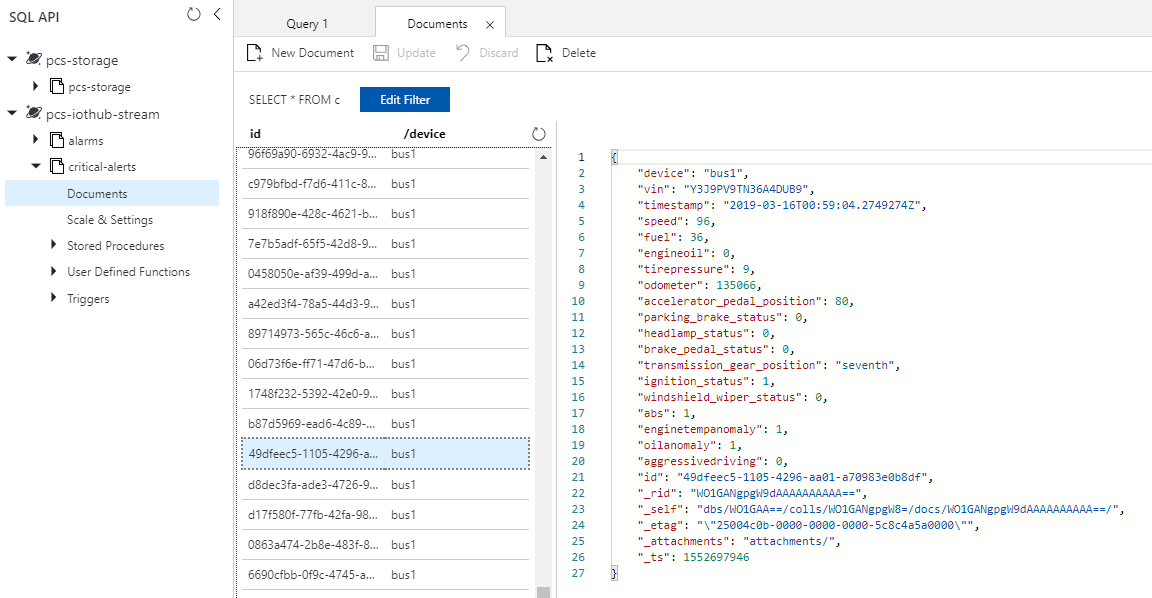
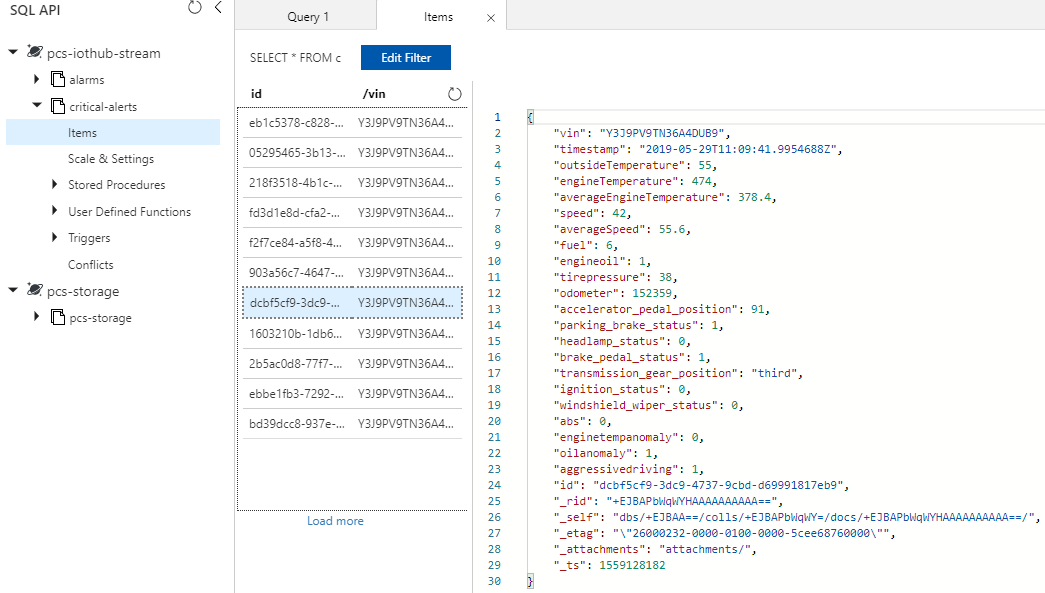
Testfix June 2019 - CosmosDB Items instead of Documents, fixed code and corrected image

diff --git a/Hands-on lab/HOL step-by-step - IoT and the Smart City.md b/Hands-on lab/HOL step-by-step - IoT and the Smart City.md
@@ -1834,8 +1834,7 @@ The console app is a fast and effortless way to view the critical engine alerts 
             var criticalAlertContent = JSON.stringify(alert);
             // Save the alarm to Cosmos DB
             context.bindings.criticalAlertDocument = criticalAlertContent;
-        }
-        context.done();
+            context.done();
     };
     ```
 
@@ -1867,7 +1866,7 @@ Apply a query filter on the messages collection to view the critical engine aler
 
     ![On the Query 1 tab, the Results 1 - 87 message is called out, and results display below.](images/Hands-onlabstep-by-step-IoTandtheSmartCityimages/media/image142.png 'Query 1 tab')
 
-4.  Expand the **critical-alerts** collection and select **Documents**. Choose one of the documents to view. You will see the full message data for the critical alert.
+4.  Expand the **critical-alerts** collection and select **Items**. Choose one of the items to view. You will see the full message data for the critical alert.
 
     ![Under Collections, ics-iothub-stream is expanded, Critical-alerts is expanded, and Documents is selected. On the Documents tab, a document id is selected, and the message data for the critical alert displays.](images/Hands-onlabstep-by-step-IoTandtheSmartCityimages/media/image143.png 'Collections section')
 
